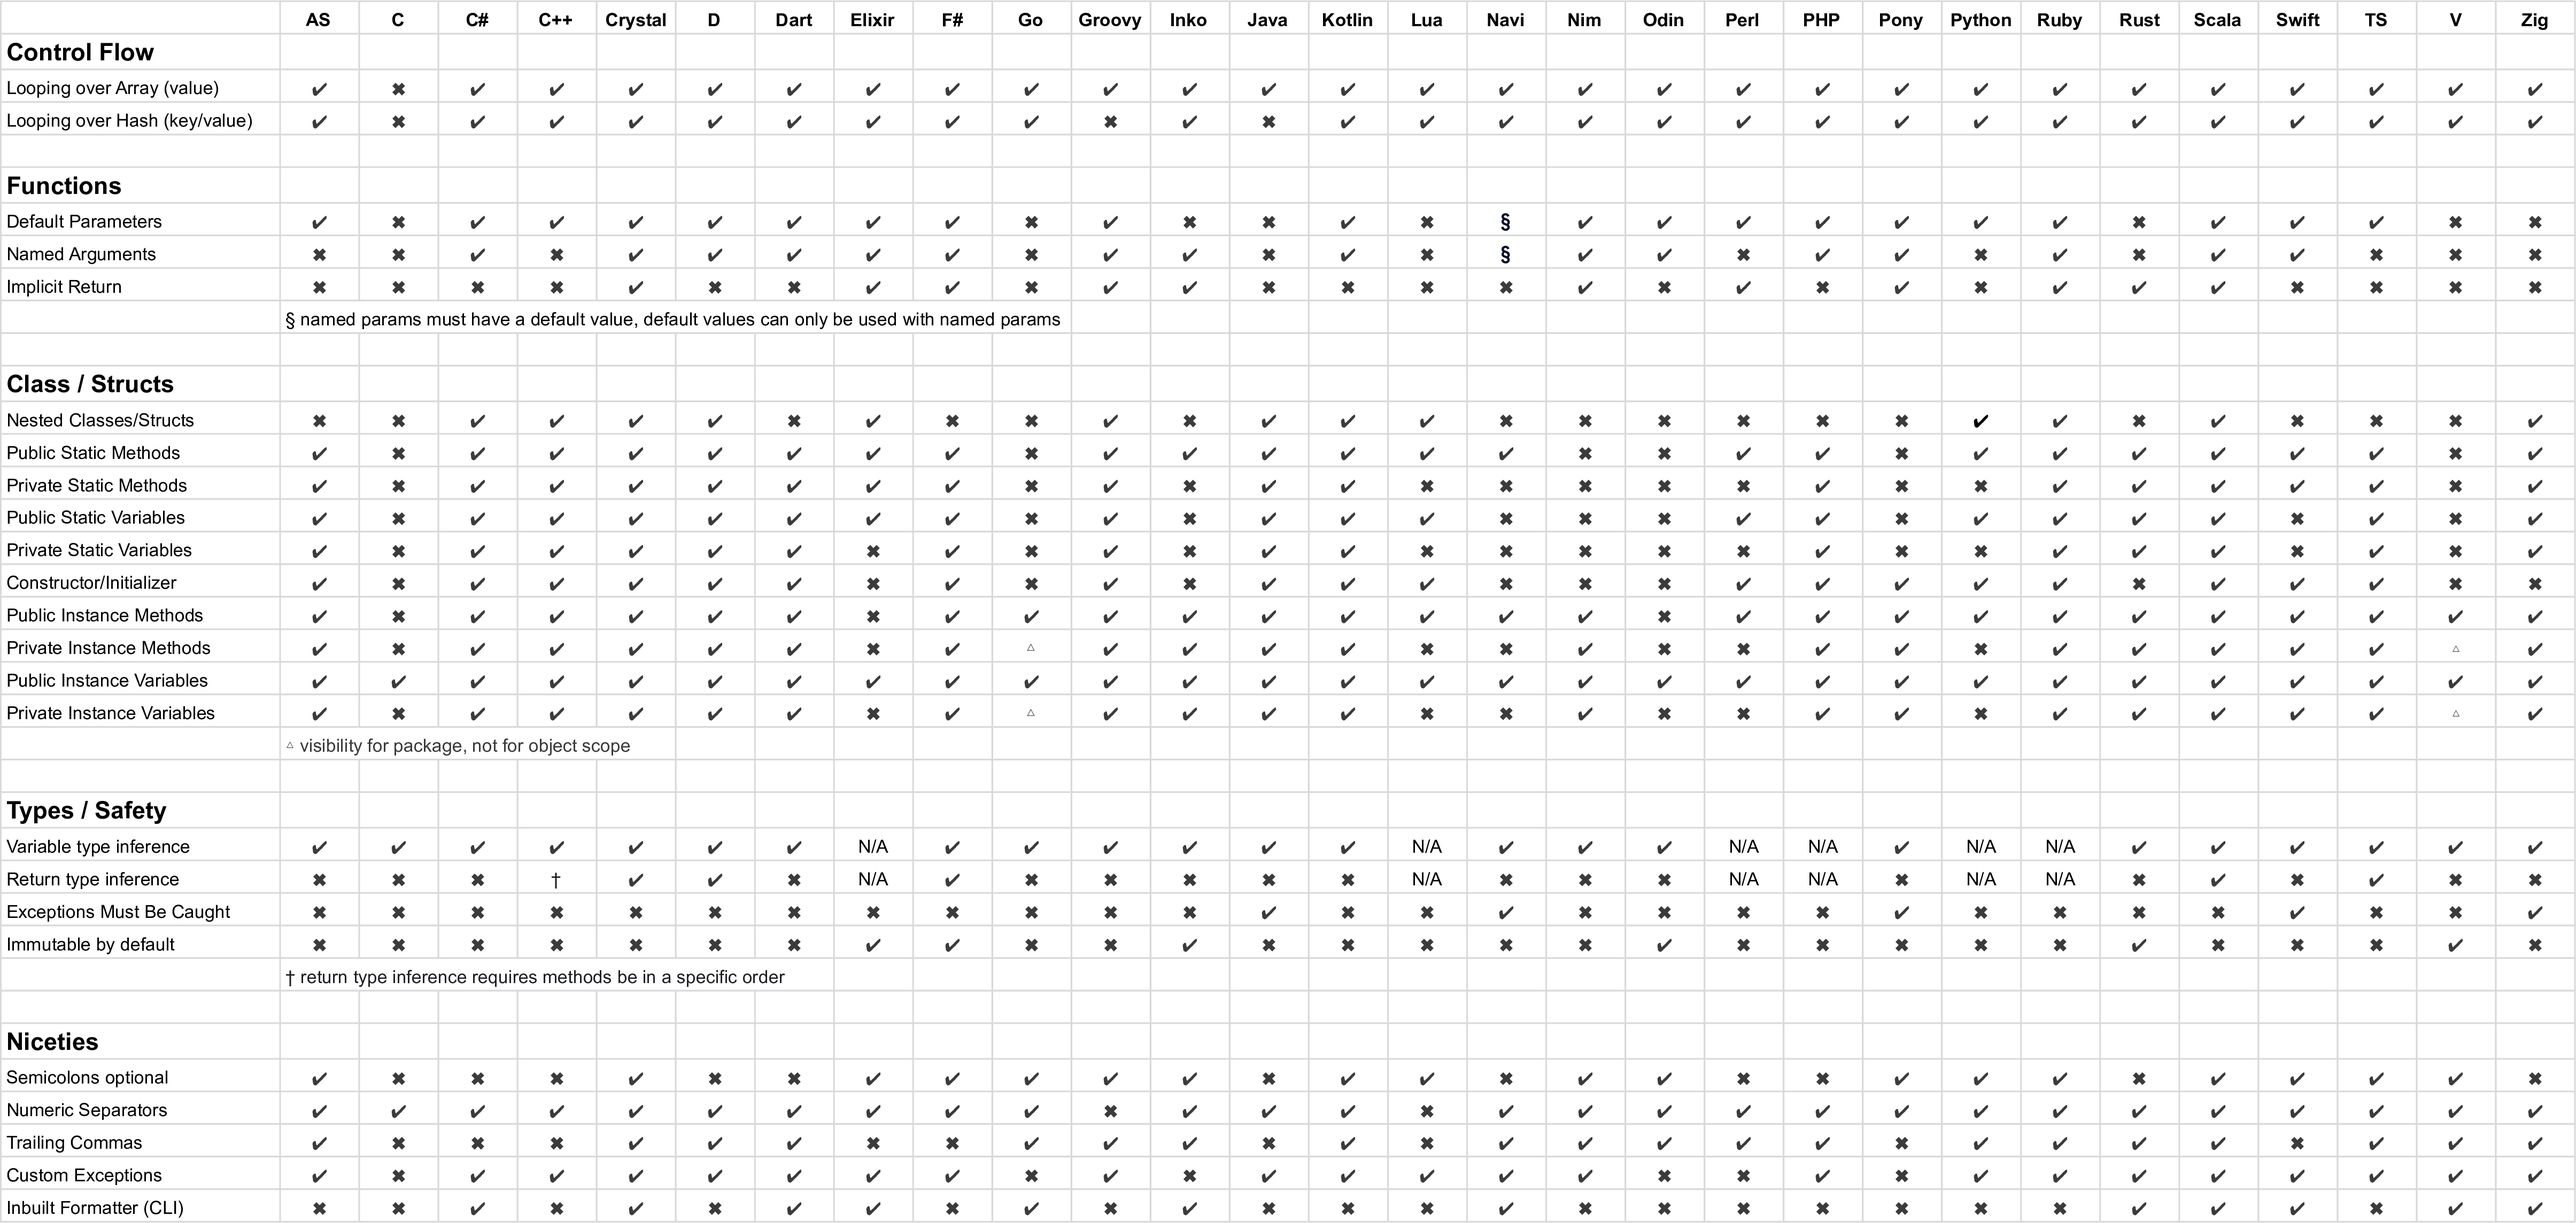
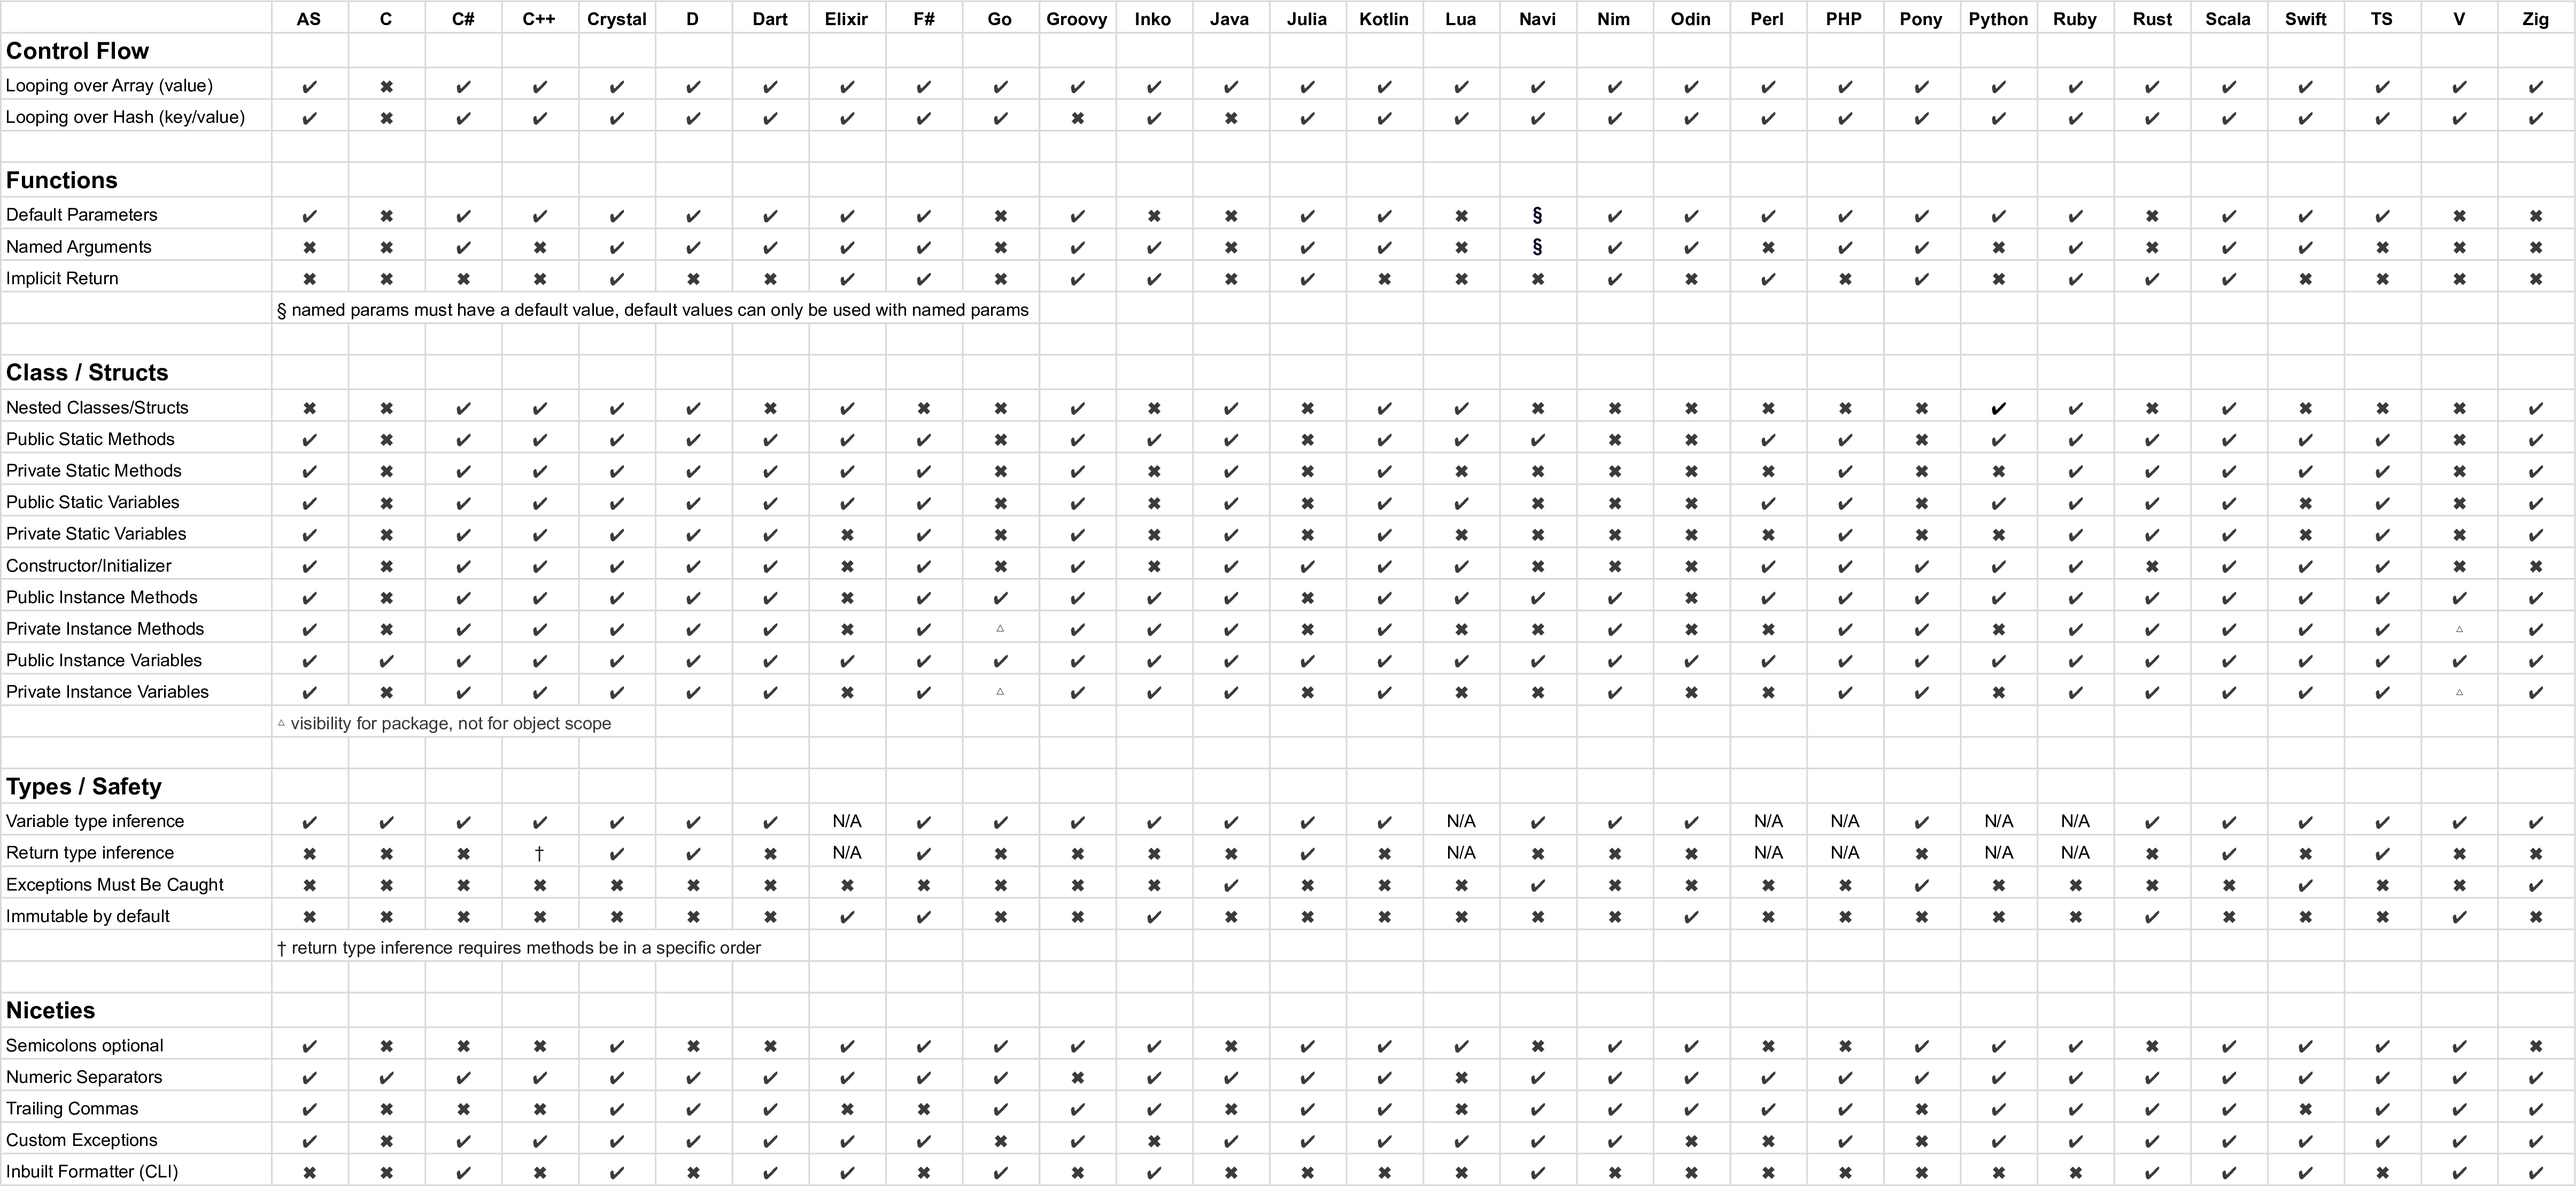
Implementation: Julia

diff --git a/julia/README.md b/julia/README.md
@@ -1,0 +1,9 @@
+# Julia
+
+## Installation
+
+* `brew install julia`
+
+## Usage
+
+* `julia -O3 play.jl`
